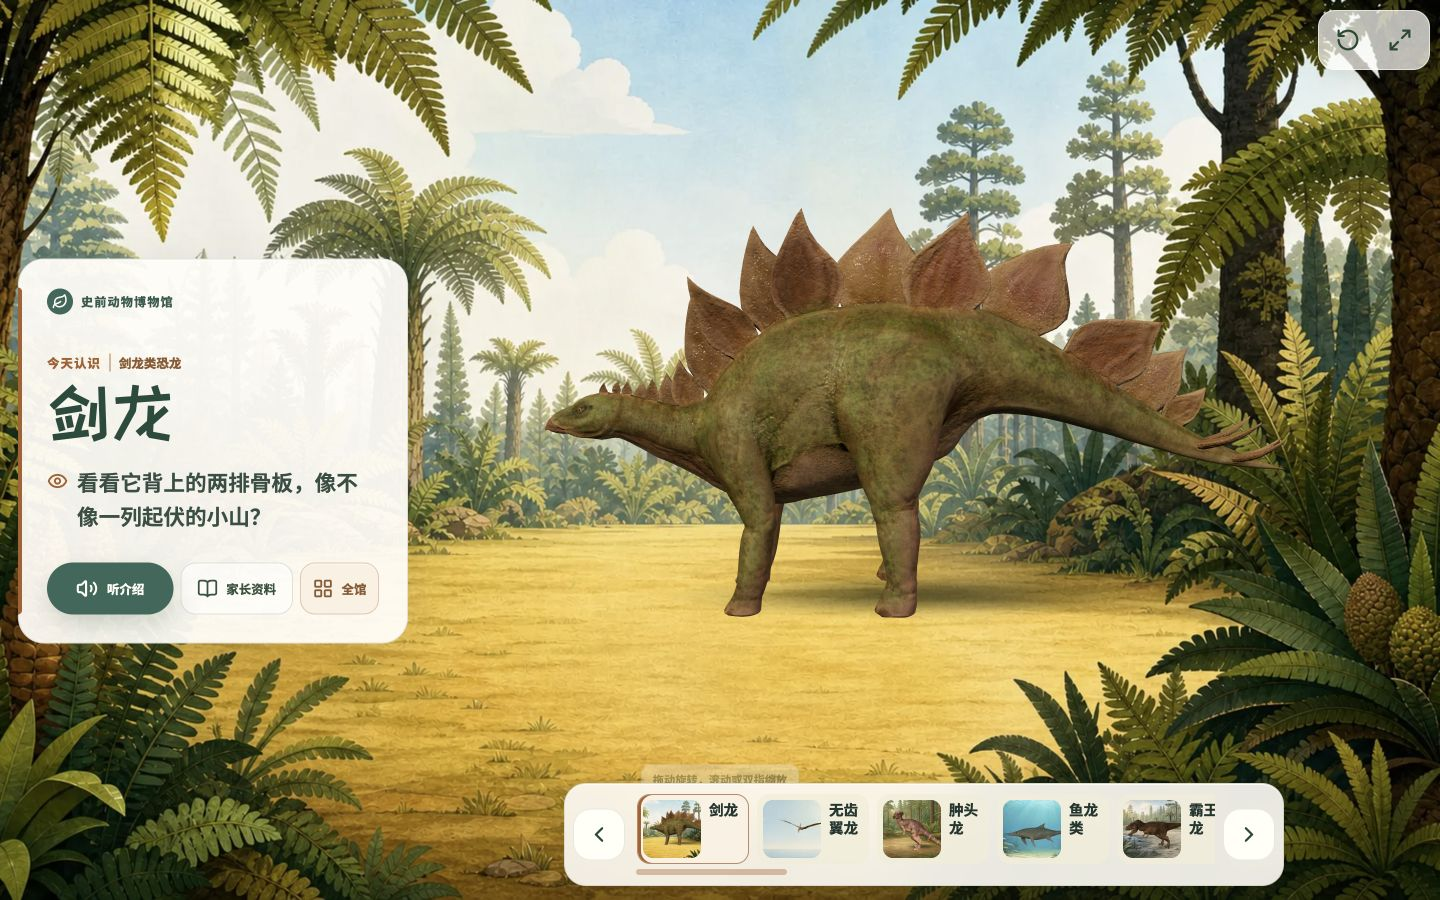
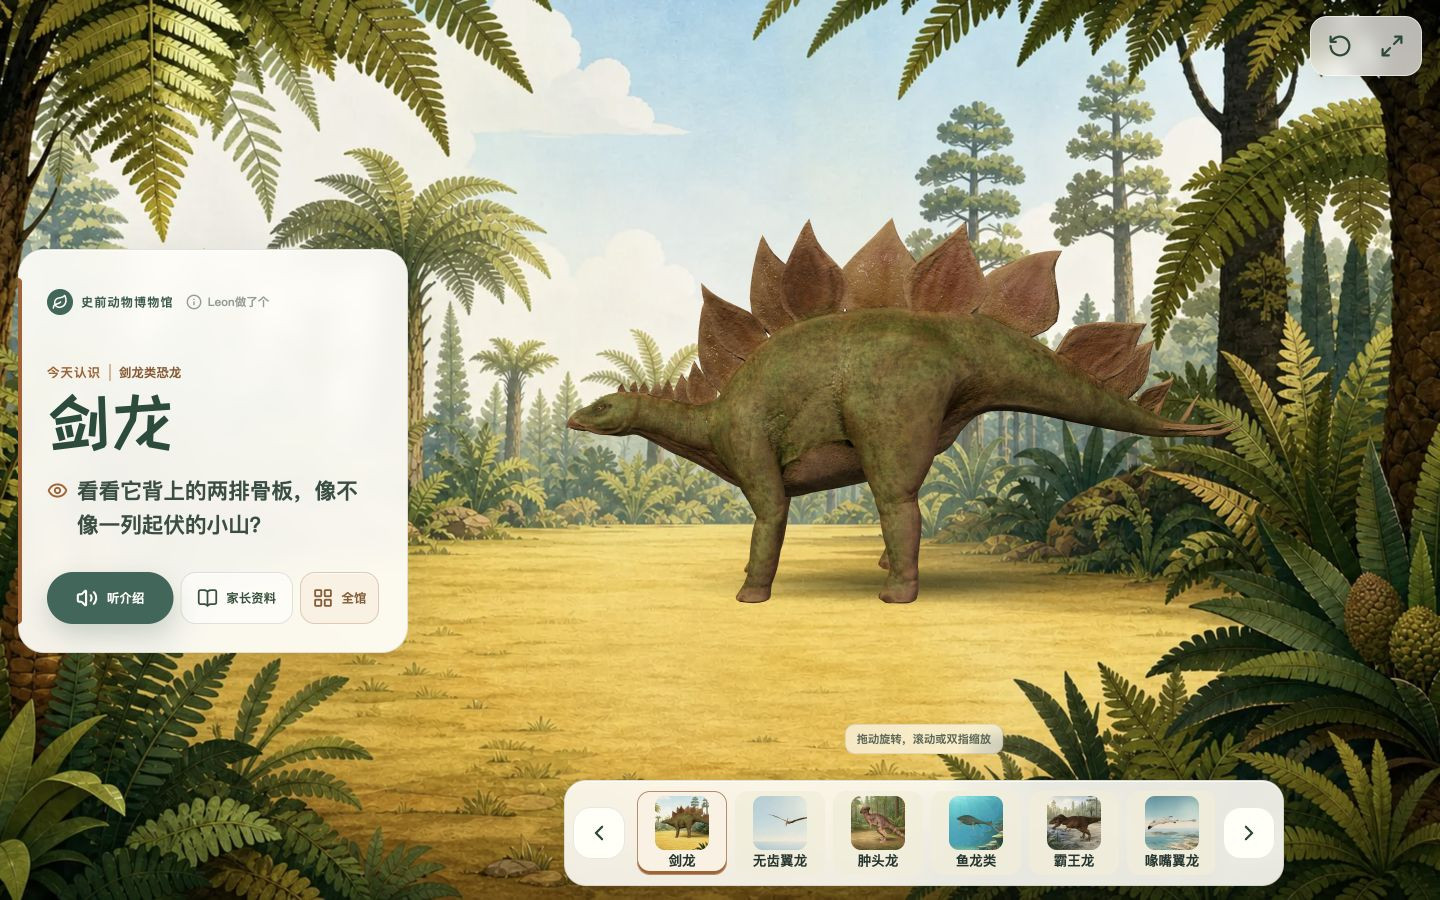
docs: refresh museum screenshots

diff --git a/src/content/animals/tupandactylus/provenance.ts b/src/content/animals/tupandactylus/provenance.ts
@@ -171,11 +171,12 @@ export const provenance = [
     "source": {
       "type": "derived",
       "title": "古神翼龙 collection thumbnail",
-      "generatedOn": "2026-08-01",
+      "generatedOn": "2026-08-07",
       "inputAssetPaths": [
-        "images/poster.webp"
+        "model/model.glb",
+        "backgrounds/landscape.webp"
       ],
-      "method": "Cropped the reviewed poster to a readable 320 × 320 WebP collection image."
+      "method": "Captured the current 1440 × 900 desktop presentation, cropped a clean 500 × 500 animal-and-habitat region outside the interface chrome, resized it to 320 × 320, and encoded it as WebP."
     },
     "license": {
       "spdx": "CC-BY-4.0",
@@ -183,8 +184,8 @@ export const provenance = [
       "url": "https://creativecommons.org/licenses/by/4.0/"
     },
     "runtime": {
-      "bytes": 11202,
[1 lines of base64/hex data omitted]
+      "bytes": 14316,
[1 lines of base64/hex data omitted]
     },
     "modifications": [
       "Selected a card-size crop that keeps the animal readable.",

diff --git a/src/content/animals/mosasaurus/provenance.ts b/src/content/animals/mosasaurus/provenance.ts
@@ -171,12 +171,12 @@ export const provenance = [
     "source": {
       "type": "derived",
       "title": "沧龙 collection thumbnail",
-      "generatedOn": "2026-08-01",
+      "generatedOn": "2026-08-07",
       "inputAssetPaths": [
         "model/model.glb",
         "backgrounds/landscape.webp"
       ],
-      "method": "Deterministic square crop from the accepted desktop review presentation after hiding all interface chrome."
+      "method": "Captured the current 1440 × 900 desktop presentation in model focus mode, cropped a clean 700 × 700 animal-and-habitat region, resized it to 320 × 320, and encoded it as WebP."
     },
     "license": {
       "spdx": "CC-BY-4.0",
@@ -184,8 +184,8 @@ export const provenance = [
       "url": "https://creativecommons.org/licenses/by/4.0/"
     },
     "runtime": {
-      "bytes": 11094,
[1 lines of base64/hex data omitted]
+      "bytes": 12150,
[1 lines of base64/hex data omitted]
     },
     "modifications": [
       "Selected a card-size crop that keeps the animal readable.",

diff --git a/src/content/animals/stegosaurus/provenance.ts b/src/content/animals/stegosaurus/provenance.ts
@@ -174,16 +174,16 @@ export const provenance = [
     source: {
       type: 'derived',
       title: 'Stegosaurus collection thumbnail',
-      generatedOn: '2026-07-29',
-      inputAssetPaths: ['images/poster.webp'],
+      generatedOn: '2026-08-07',
+      inputAssetPaths: ['model/model.glb', 'backgrounds/landscape.webp'],
       method:
-        'Cropped a readable 700 × 700 model-stage detail from the corrected runtime presentation, resized it to 320 × 320, then encoded with cwebp quality 82 effort 6.',
+        'Captured the current 1440 × 900 desktop presentation in model focus mode, cropped a clean 900 × 900 animal-and-habitat region, resized it to 320 × 320, and encoded it as WebP.',
     },
     license: modelLicense,
     runtime: {
       sha256:
[1 lines of base64/hex data omitted]
-      bytes: 18_252,
[1 lines of base64/hex data omitted]
+      bytes: 33_072,
     },
     modifications: [
       'Replaced the letterboxed overview with a closer crop that keeps the head and back plates readable at card size.',

diff --git a/THIRD_PARTY_NOTICES.md b/THIRD_PARTY_NOTICES.md
@@ -686,10 +686,10 @@ content, contributions, and Brand Assets follow the separate scopes in
 ### `images/thumbnail.webp`
 
 - Asset type: thumbnail
-- Source: 沧龙 collection thumbnail, derived on 2026-08-01
+- Source: 沧龙 collection thumbnail, derived on 2026-08-07
 - License: [Creative Commons Attribution 4.0 International](https://creativecommons.org/licenses/by/4.0/)
 - Attribution: “Mosasaurus” by Lukiethewesly13, CC-BY-4.0; modified for the Prehistoric Animal Museum. Scene art generated for this project.
[2 lines of base64/hex data omitted]
 - Modifications:
   - Selected a card-size crop that keeps the animal readable.
   - Exported without embedded text, controls, labels, logos, or watermarks.
@@ -1137,10 +1137,10 @@ content, contributions, and Brand Assets follow the separate scopes in
 ### `images/thumbnail.webp`
 
 - Asset type: thumbnail
-- Source: Stegosaurus collection thumbnail, derived on 2026-07-29
+- Source: Stegosaurus collection thumbnail, derived on 2026-08-07
 - License: [Creative Commons Attribution 4.0 International](https://creativecommons.org/licenses/by/4.0/)
 - Attribution: Thumbnail includes “PBR Stegasaurus (Animated)” by Ferocious Industries, CC BY 4.0; scene art generated for this project.
[2 lines of base64/hex data omitted]
 - Modifications:
   - Replaced the letterboxed overview with a closer crop that keeps the head and back plates readable at card size.
   - Exported a 320 × 320 WebP without embedded text, controls, or labels.
@@ -1289,10 +1289,10 @@ content, contributions, and Brand Assets follow the separate scopes in
 ### `images/thumbnail.webp`
 
 - Asset type: thumbnail
-- Source: 古神翼龙 collection thumbnail, derived on 2026-08-01
+- Source: 古神翼龙 collection thumbnail, derived on 2026-08-07
 - License: [Creative Commons Attribution 4.0 International](https://creativecommons.org/licenses/by/4.0/)
 - Attribution: “Tupandactylus” by Paleo Modelist (@victory_), CC-BY-4.0; modified for the Prehistoric Animal Museum. Scene art generated for this project.
[2 lines of base64/hex data omitted]
 - Modifications:
   - Selected a card-size crop that keeps the animal readable.
   - Exported without embedded text, controls, labels, logos, or watermarks.
